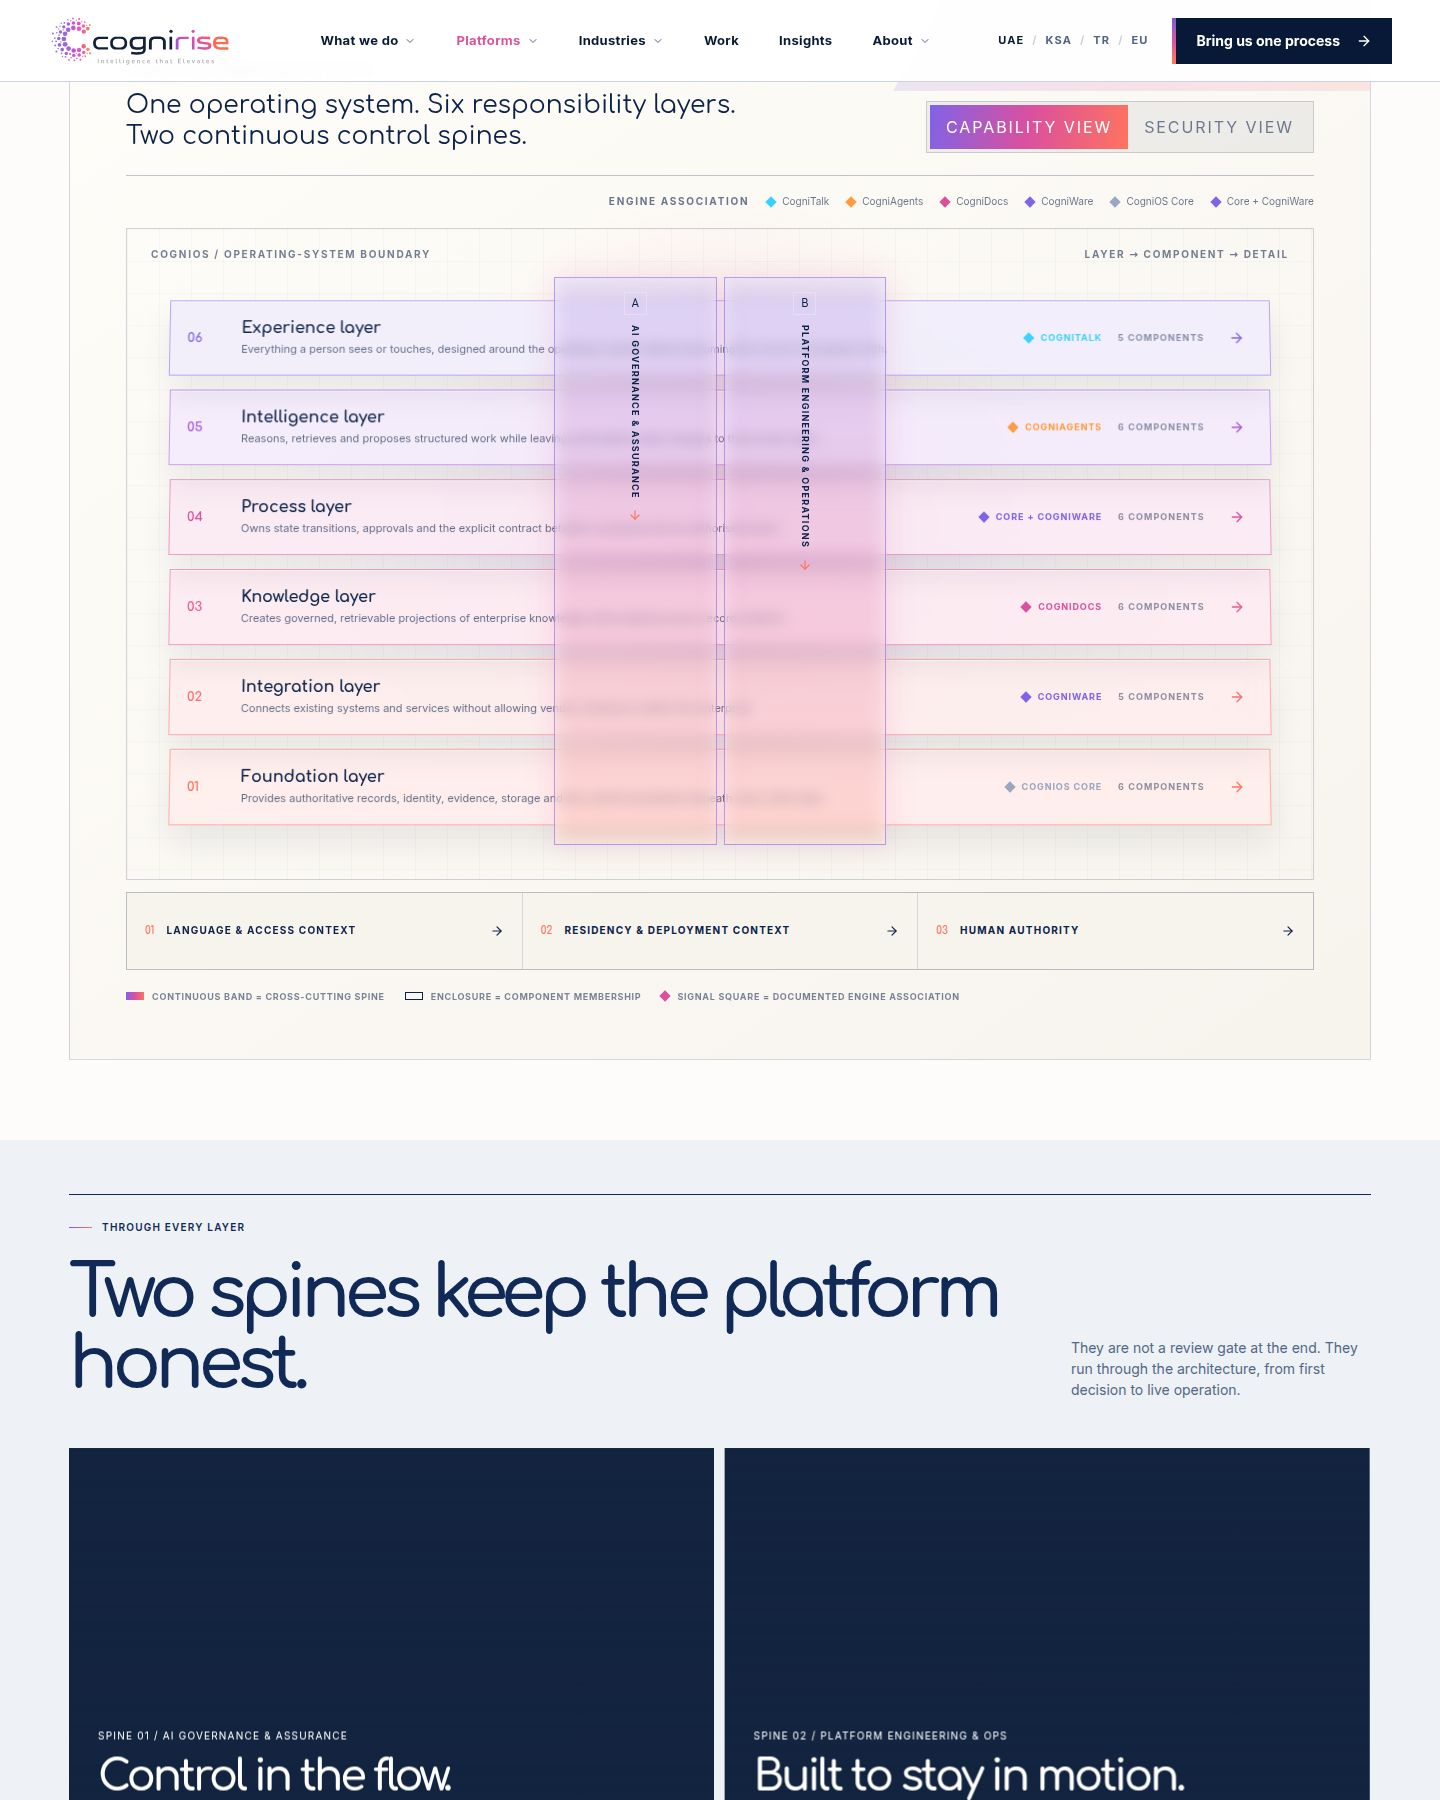
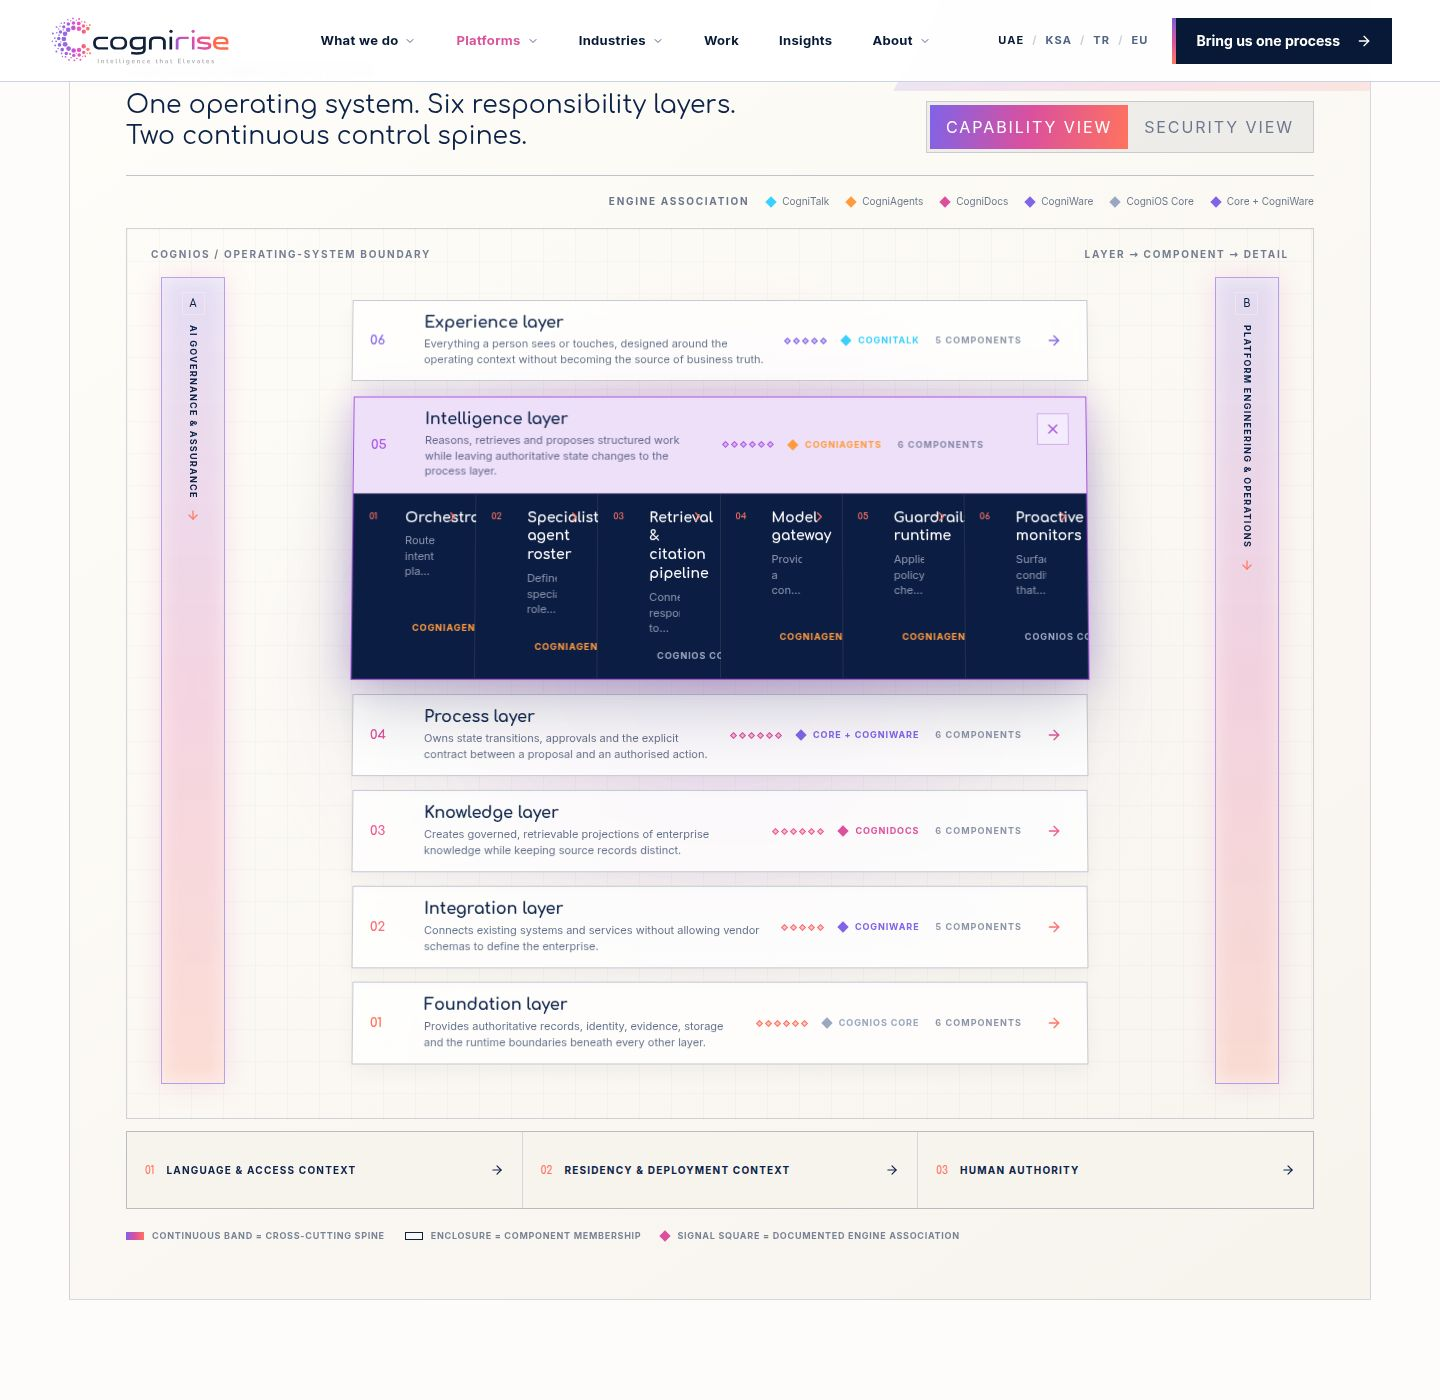
Refine CogniOS architecture spines and drill-down close controls
Replit-Task-Id: 94e2ec85-9478-45ad-a442-ef05b6e333a2
Replit-Merge-Attempt: MergeTask:94e2ec85-9478-45ad-a442-ef05b6e333a2:1:969937dc

diff --git a/artifacts/cognirise-website/src/components/cognios/ArchitectureStage.tsx b/artifacts/cognirise-website/src/components/cognios/ArchitectureStage.tsx
@@ -164,6 +164,7 @@ export function ArchitectureStage() {
                   }}
                   type="button"
                   className="coa-layer-plane"
+                   aria-label={active ? `Close ${layer.name} and show all architecture layers` : `Open ${layer.name}`}
                   aria-expanded={active}
                   aria-controls={active ? `architecture-layer-${layer.id}` : undefined}
                   onClick={() => {
@@ -184,9 +185,22 @@ export function ArchitectureStage() {
                     {lens === "capability" ? `${layer.components.length} components` : `${layer.controls.length} controls`}
                   </span>
                   <span className="coa-layer-action" aria-hidden="true">
-                    {active ? <X size={16} /> : <ArrowRight size={16} />}
+                     {!active && <ArrowRight size={16} />}
                   </span>
                 </button>
+                 {active && (
+                   <button
+                     type="button"
+                     className="coa-layer-close"
+                     aria-label={`Close ${layer.name} and show all architecture layers`}
+                     onClick={() => {
+                       setContextSelection(null);
+                       setArchitectureState(null, null);
+                     }}
+                   >
+                     <X size={16} />
+                   </button>
+                 )}
 
                 <AnimatePresence initial={false}>
                   {active && (
@@ -204,6 +218,7 @@ export function ArchitectureStage() {
                           selected={componentId}
                           componentRefs={componentRefs}
                           onSelect={(id) => setArchitectureState(layer.id, componentId === id ? null : id)}
+                         onCloseDetail={() => setArchitectureState(layer.id, null)}
                         />
                       ) : (
                         <SecurityStudy layer={layer} />
@@ -300,11 +315,13 @@ function CapabilityStudy({
   selected,
   onSelect,
   componentRefs,
+  onCloseDetail,
 }: {
   layer: ArchitectureLayer;
   selected: string | null;
   onSelect: (id: string) => void;
   componentRefs: React.MutableRefObject<Record<string, HTMLButtonElement | null>>;
+  onCloseDetail: () => void;
 }) {
   const selectedComponent = layer.components.find((component) => component.id === selected);
   return (
@@ -341,6 +358,7 @@ function CapabilityStudy({
             key={selectedComponent.id}
             layer={layer}
             component={selectedComponent}
+             onClose={onCloseDetail}
           />
         )}
       </AnimatePresence>
@@ -351,7 +369,8 @@ function CapabilityStudy({
 const ComponentDetail = React.forwardRef<HTMLElement, {
   layer: ArchitectureLayer;
   component: ArchitectureComponent;
-}>(function ComponentDetail({ layer, component }, ref) {
+  onClose: () => void;
+}>(function ComponentDetail({ layer, component, onClose }, ref) {
   const reducedMotion = useReducedMotion();
   return (
     <motion.aside
@@ -363,6 +382,14 @@ const ComponentDetail = React.forwardRef<HTMLElement, {
       exit={{ opacity: 0, x: reducedMotion ? 0 : 12 }}
       transition={{ duration: reducedMotion ? 0 : 0.25 }}
     >
+      <button
+        type="button"
+        className="co-component-detail-close"
+        aria-label={`Close ${component.name} detail and return to ${layer.name} components`}
+        onClick={onClose}
+      >
+        <X size={17} />
+      </button>
       <span className="co-detail-crumb">Architecture / {layer.name} / component</span>
       <h3>{component.name}</h3>
       <p className="co-detail-responsibility">{component.responsibility}</p>

diff --git a/artifacts/cognirise-website/src/components/cognios/ArchitectureStage.css b/artifacts/cognirise-website/src/components/cognios/ArchitectureStage.css
@@ -115,7 +115,7 @@
 
 .co-system-boundary {
   position: relative;
-  padding: 70px clamp(18px, 3vw, 42px) 54px;
+  padding: 70px clamp(18px, 2.4vw, 34px) 54px;
   background:
     linear-gradient(rgba(7,21,54,.025) 1px, transparent 1px),
     linear-gradient(90deg, rgba(7,21,54,.025) 1px, transparent 1px),
@@ -140,12 +140,14 @@
 .coa-spine-field {
   position: absolute;
   z-index: 5;
-  inset: 48px 36% 34px;
+  inset: 48px clamp(18px, 2.4vw, 34px) 34px;
   display: grid;
-  grid-template-columns: 1fr 1fr;
-  gap: 7px;
+  grid-template-columns: 64px minmax(0, 1fr) 64px;
+  gap: clamp(14px, 2vw, 28px);
   pointer-events: none;
 }
+.coa-spine-left { grid-column: 1; }
+.coa-spine-right { grid-column: 3; }
 .coa-spine {
   min-width: 0;
   display: flex;
@@ -185,6 +187,10 @@
 .coa-spine svg { color: var(--co-coral); transform: rotate(90deg); }
 
 .co-system-layers {
+  width: min(100%, 980px);
+  margin-inline: auto;
+  padding-inline: clamp(84px, 10vw, 122px);
+  box-sizing: border-box;
   min-width: 0;
   display: grid;
   grid-template-rows: repeat(6, minmax(74px, auto));
@@ -239,6 +245,22 @@
   background: transparent;
   color: var(--co-ink);
   text-align: left;
+  cursor: pointer;
+}
+.coa-layer.is-active .coa-layer-plane { padding-right: 54px; }
+.coa-layer-close {
+  position: absolute;
+  z-index: 8;
+  top: 16px;
+  right: 17px;
+  width: 32px;
+  height: 32px;
+  display: grid;
+  place-items: center;
+  padding: 0;
+  border: 1px solid color-mix(in srgb, var(--layer-signal) 48%, white);
+  background: color-mix(in srgb, var(--layer-signal) 12%, white);
+  color: var(--layer-signal);
   cursor: pointer;
 }
 
@@ -358,11 +380,27 @@
 .co-component-rail > button.is-active .co-component-chevron { transform: rotate(90deg); }
 
 .co-component-detail {
+  position: relative;
   padding: clamp(24px, 4vw, 48px);
   background: linear-gradient(145deg, #102957, #08193c);
   border-top: 1px solid rgba(255, 115, 95, .55);
   color: white;
 }
+.co-component-detail-close {
+  position: absolute;
+  top: clamp(18px, 3vw, 30px);
+  right: clamp(18px, 3vw, 30px);
+  width: 36px;
+  height: 36px;
+  display: grid;
+  place-items: center;
+  padding: 0;
+  border: 1px solid rgba(255,255,255,.24);
+  background: rgba(255,255,255,.06);
+  color: white;
+  cursor: pointer;
+}
+.co-component-detail-close:hover { border-color: var(--co-coral); color: var(--co-coral); }
 .co-detail-crumb { color: var(--co-coral); }
 .co-component-detail h3 {
   margin: 12px 0 9px;
@@ -473,9 +511,12 @@
 @media (max-width: 960px) {
   .co-system-boundary { padding: 112px 12px 24px; }
   .coa-spine-field { inset: 48px 12px auto; height: 52px; grid-template-columns: 1fr 1fr; }
+  .coa-spine-left { grid-column: 1; }
+  .coa-spine-right { grid-column: 2; }
   .coa-spine { min-height: 46px; flex-direction: row; justify-content: center; padding: 8px; }
   .coa-spine strong { writing-mode: horizontal-tb; transform: none; }
   .coa-spine svg { transform: none; }
+  .co-system-layers { width: 100%; padding-inline: 0; }
   .co-capability-study.is-l3 { grid-template-columns: 1fr; }
   .co-component-rail { flex-wrap: wrap; }
   .co-component-rail > button { flex-basis: calc(50% - 1px); }
@@ -491,6 +532,7 @@
   .co-boundary-label span:last-child { display: none; }
   .co-system-boundary { padding-top: 166px; }
   .coa-spine-field { height: auto; grid-template-columns: 1fr; }
+  .coa-spine-left, .coa-spine-right { grid-column: 1; }
   .coa-spine { min-height: 48px; }
   .coa-layer, .coa-layer.is-active, .coa-layer.is-quiet { transform: none; opacity: 1; }
   .coa-layer-plane { grid-template-columns: 28px minmax(0, 1fr) 28px; gap: 10px; padding: 13px; }
